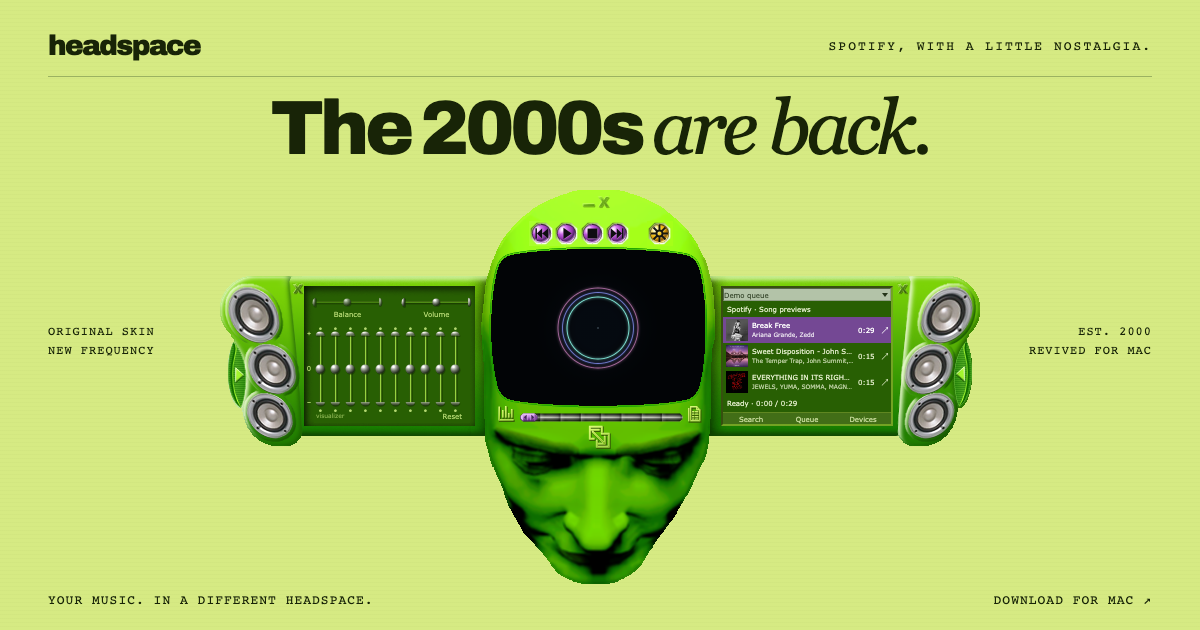
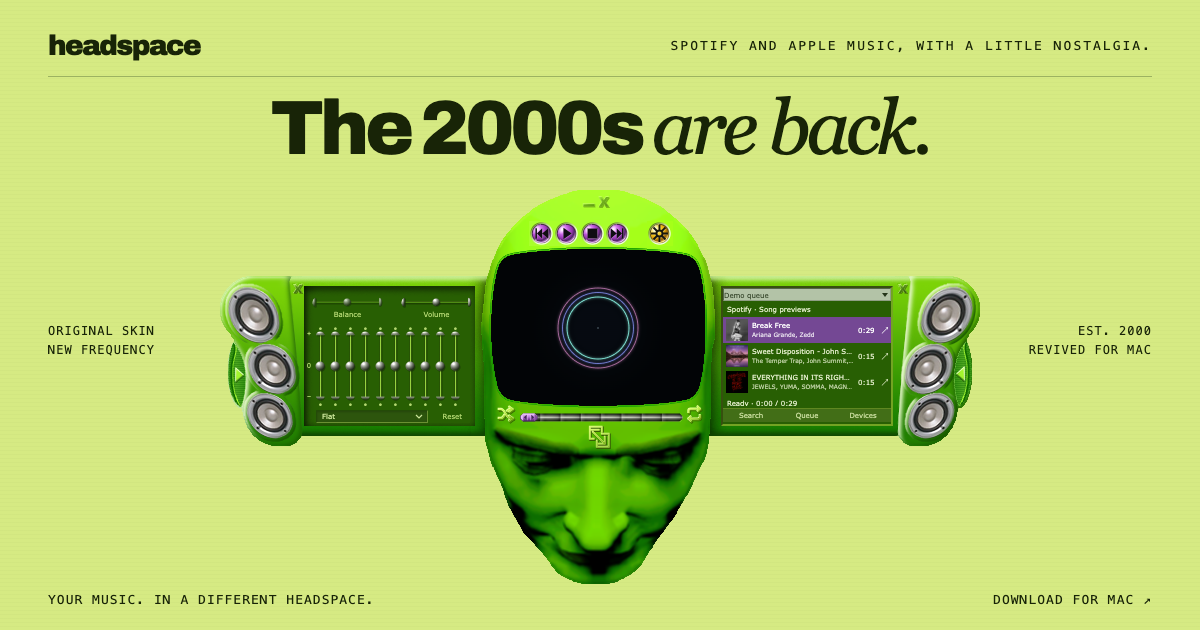
Release Headspace 1.0.5 with Apple Music
Advertise Apple Music next to Spotify on the landing page, SEO metadata,
and social card.

diff --git a/apps/site/src/routes/index.tsx b/apps/site/src/routes/index.tsx
@@ -51,7 +51,7 @@ export const Route = createFileRoute('/')({
           downloadUrl:
             'https://github.com/mantrakp04/headspace/releases/latest/download/Headspace.dmg',
           softwareRequirements:
-            'Apple silicon Mac. Spotify Premium and internet connection required for full playback.',
+            'Apple silicon Mac. Spotify Premium or an Apple Music subscription and an internet connection required for full playback.',
           author: {
             '@type': 'Person',
             name: 'barrel of lube',
@@ -147,7 +147,8 @@ function Home() {
       </section>
       <div className="hero-download page-chrome">
         <p className="player-hint">
-          A retro Spotify player for Mac. Try three previews, no sign-in.
+          A retro Spotify and Apple Music player for Mac. Try three previews, no
+          sign-in.
         </p>
         <a
           className="landing-download"
@@ -156,7 +157,7 @@ function Home() {
           <AppleMark /> Download for Mac
         </a>
         <p className="landing-requirements">
-          Apple silicon · macOS 14+ · Spotify Premium
+          Apple silicon · macOS 14+ · Spotify Premium or Apple Music
         </p>
       </div>
       <footer className="landing-footer page-chrome">
@@ -173,8 +174,8 @@ function Home() {
           / Carolyn Farino.
           <br />
           <span>
-            Independent project. Not affiliated with Microsoft, Spotify, or
-            Headspace meditation.
+            Independent project. Not affiliated with Microsoft, Spotify, Apple,
+            or Headspace meditation.
           </span>
         </p>
         <a href={`${repository}/releases`}>

diff --git a/apps/site/src/seo.ts b/apps/site/src/seo.ts
@@ -1,7 +1,8 @@
 export const siteUrl = 'https://hxc-p-53-si-870a3bb506b56ed0c0.fly.dev/';
-export const siteTitle = 'Headspace for Mac | Retro Spotify Music Player';
+export const siteTitle =
+  'Headspace for Mac | Retro Spotify and Apple Music Player';
 export const siteDescription =
-  'Bring the original 2000s Headspace player to your Mac. Listen with Spotify, explore audio visualizations, and try three song previews without signing in.';
+  'Bring the original 2000s Headspace player to your Mac. Listen with Spotify or Apple Music, explore audio visualizations, and try three song previews without signing in.';
 export const shareImage = `${siteUrl}headspace/social-card.png`;
 export const shareImageAlt =
-  'Headspace. The 2000s are back. The original lime-green music player, revived for Mac with Spotify.';
+  'Headspace. The 2000s are back. The original lime-green music player, revived for Mac with Spotify and Apple Music.';

diff --git a/apps/site/scripts/social-card.html b/apps/site/scripts/social-card.html
@@ -13,7 +13,7 @@ iframe{position:absolute;left:220px;top:190px;width:760px;height:394px;border:0;
 .side{position:absolute;top:322px;font:12px/1.6 monospace;letter-spacing:1px}.left{left:48px}.right{right:48px;text-align:right}
 footer{position:absolute;left:48px;right:48px;bottom:23px;display:flex;justify-content:space-between;font:13px monospace;letter-spacing:1px}
 </style>
-<header><span class="brand">headspace</span><span class="label">SPOTIFY, WITH A LITTLE NOSTALGIA.</span></header>
+<header><span class="brand">headspace</span><span class="label">SPOTIFY AND APPLE MUSIC, WITH A LITTLE NOSTALGIA.</span></header>
 <h1>The 2000s <em>are back.</em></h1>
 <div class="side left">ORIGINAL SKIN<br>NEW FREQUENCY</div>
 <iframe title="Headspace player" src="/embedded-player/player/index.html"></iframe>

diff --git a/apps/desktop/release-notes/1.0.5.md b/apps/desktop/release-notes/1.0.5.md
@@ -1,0 +1,6 @@
+# Headspace 1.0.5
+
+- Add Apple Music as a second music service. Choose **Apple Music** at the top of the account panel to switch; Headspace remembers the choice. An Apple Music subscription is required.
+- Browse Apple Music playlists, albums, artists, songs, and recent listening, add songs to your library, and add songs to playlists you can edit.
+- Fix playback races when switching tracks quickly, repeated songs in queues, and playlists sharing IDs.
+- Ignore late errors and playback readings from the previously selected service after switching.
